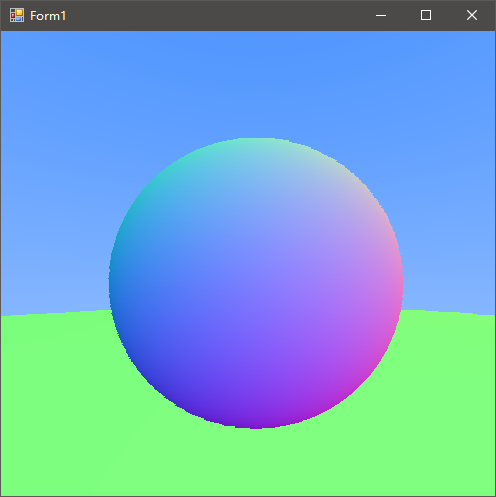
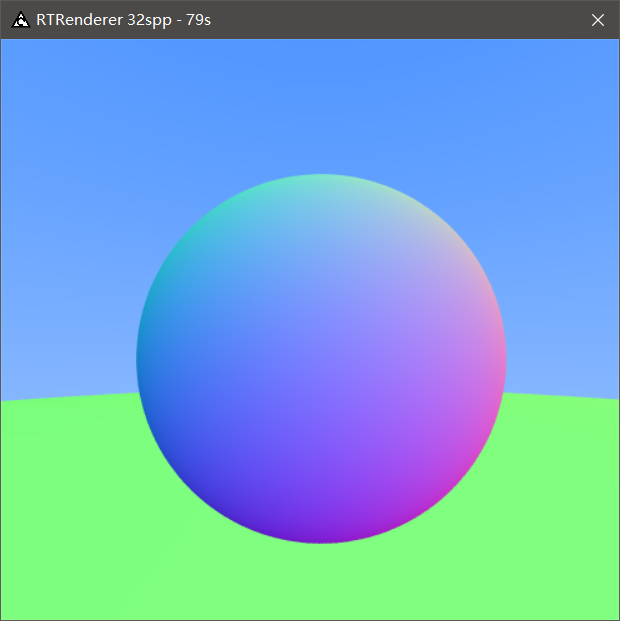
修正

diff --git a/RayTracing/Form1.cs b/RayTracing/Form1.cs
@@ -11,10 +11,11 @@ namespace RayTracing
 {
     public partial class Form1 : Form
     {
-        public static Form1 main;
+
+        private Mode mode = Mode.NormalMap;
         private readonly Bitmap buff;
         private readonly HitableList hitableList = new HitableList();
-        private const int Samples = 1;
+        private const int Samples = 32;
 
         private readonly System.Timers.Timer main_timer;
         private int seconds = 0;
@@ -22,9 +23,7 @@ namespace RayTracing
         private int Width = 512, Height = 512;
         public Form1()
         {
-
             ClientSize = new Size(Width, Height);
-            main = this;
             InitializeComponent();
             buff = new Bitmap(Width, Height);
             hitableList.list.Add(new Sphere(new Vector3(0, 0, -1), 0.5f));
@@ -69,15 +68,22 @@ namespace RayTracing
             {
                 var color = new Color32(0, 0, 0, 0);
                 for (var s = 0; s < Samples; s++)
-                    color += Diffusing(camera.CreateRay((i + Random.Range(0, 1f)) * recip_width,
-                        (j + Random.Range(0, 1f)) * recip_height), hitableList);
+                    color += mode == Mode.Diffusing
+                        ? Diffusing(camera.CreateRay(
+                            (i + Random.Range(0, 1f)) * recip_width,
+                            (j + Random.Range(0, 1f)) * recip_height), hitableList)
+                        : NormalMap(camera.CreateRay(
+                            (i + Random.Range(0, 1f)) * recip_width,
+                            (j + Random.Range(0, 1f)) * recip_height), hitableList);
                 color /= Samples;
                 color *= 1f;
                 buff.SetPixel(i, Height - j - 1, color.ToSystemColor());
             }
+
             return 0;
         }
-        private Color32 Antialiasing(Ray ray, HitableList hitableList)
+
+        private Color32 NormalMap(Ray ray, HitableList hitableList)
         {
             var record = new HitRecord();
             if (hitableList.Hit(ray, 0f, float.MaxValue, ref record))
@@ -99,5 +105,11 @@ namespace RayTracing
             var t = 0.5f * ray.normalDirection.y + 1f;
             return (1 - t) * new Color32(1, 1, 1) + t * new Color32(0.5f, 0.7f, 1);
         }
+
+        enum Mode
+        {
+            NormalMap,
+            Diffusing
+        };
     }
 }

diff --git a/README.md b/README.md
@@ -6,5 +6,5 @@ This is a simple ray tracing renderer using winform and GDI
 ## 100spp
 ![Screenshot](https://github.com/Asixa/RayTracing/blob/master/Assets/Screenshot2.png?raw=true "Screenshot")
 
-## normal map
+## NormalMap
 ![Screenshot](https://github.com/Asixa/RayTracing/blob/master/Assets/Screenshot4.png?raw=true "Screenshot")
